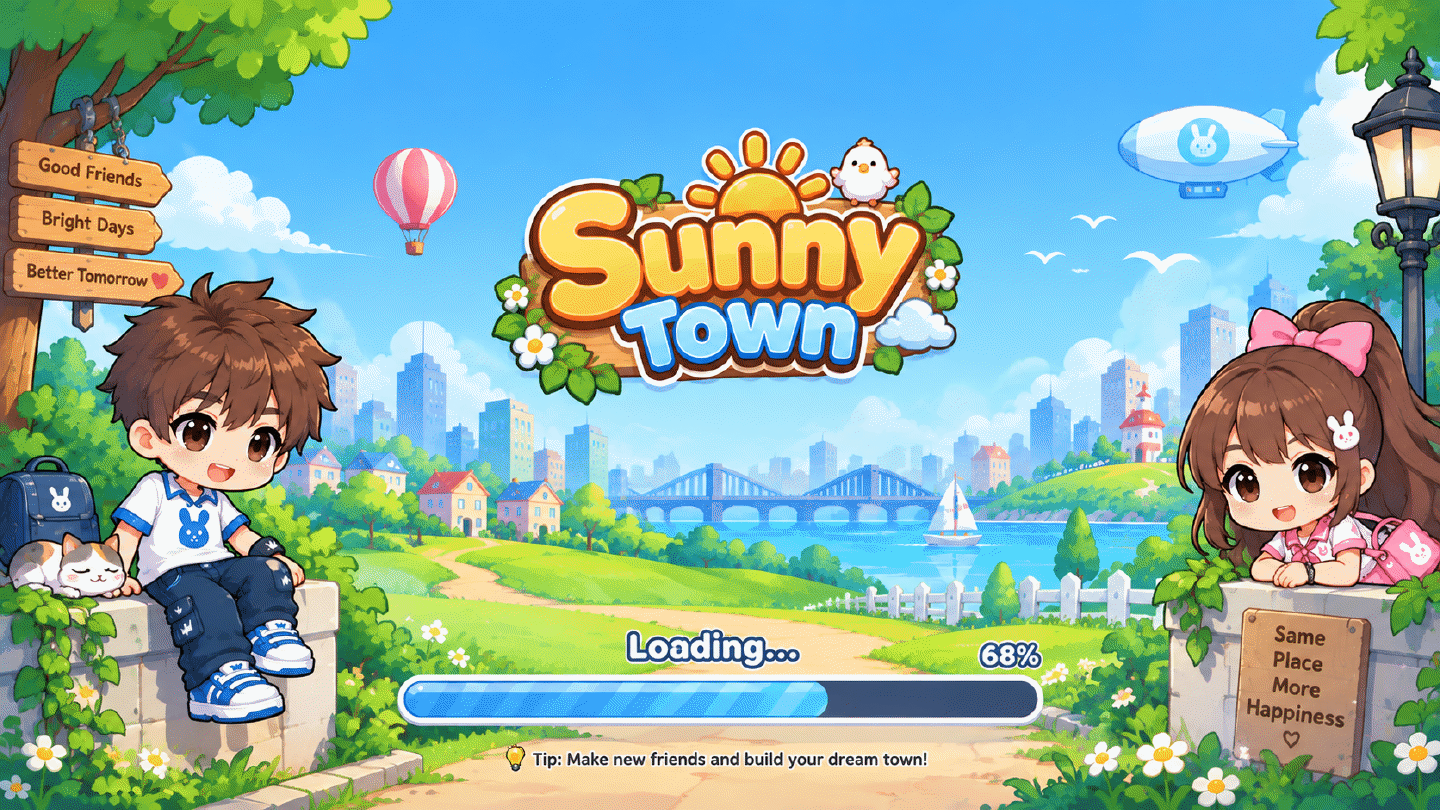
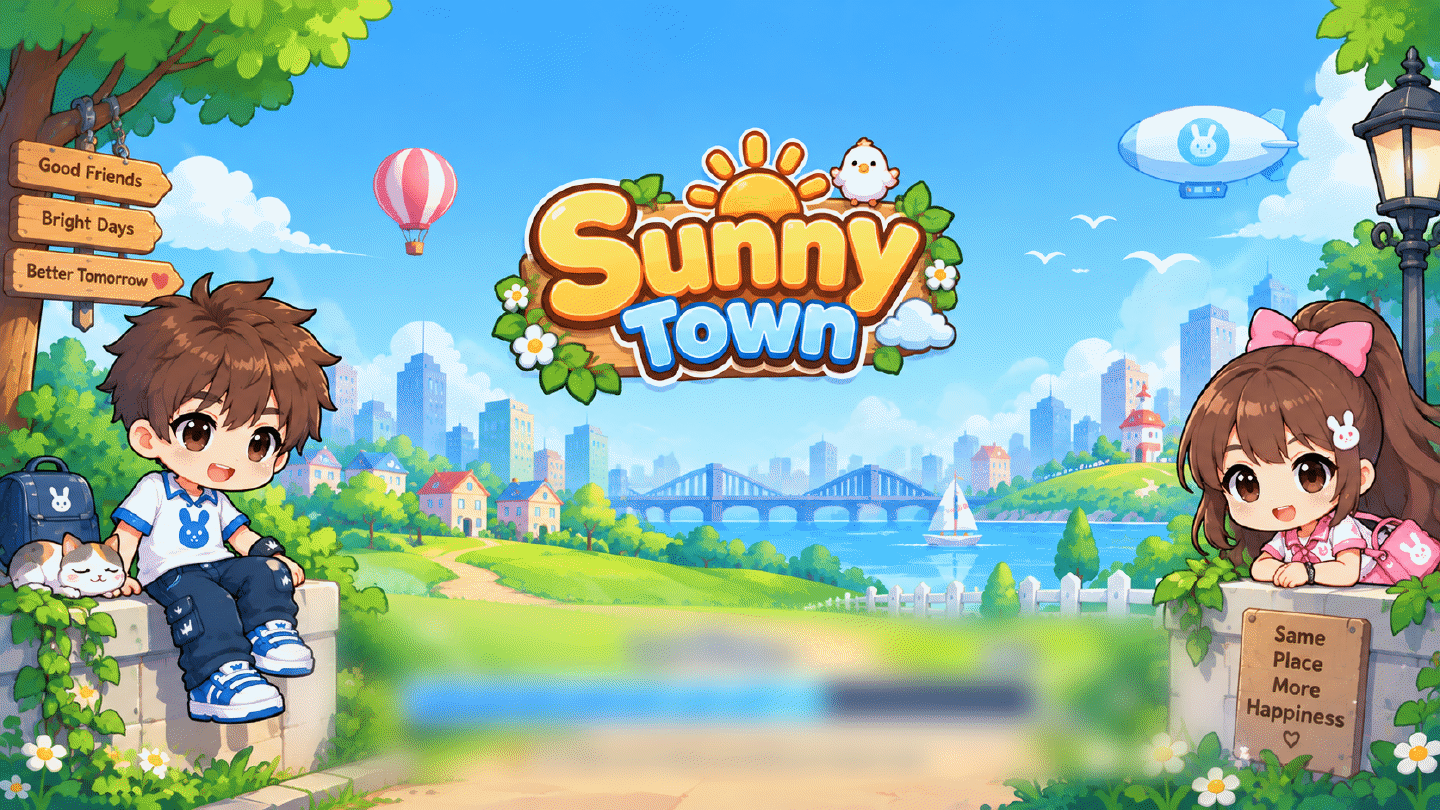
Thanh tải bám đúng bản mẫu, xoá giao diện vẽ chết khỏi tranh
- bỏ thẻ trắng ở màn chờ tải: chữ, thanh sọc chéo và dòng mẹo nằm thẳng trên
  tranh, chữ trắng viền đậm như bản mẫu
- prep-ui.mjs xoá hẳn vùng chữ và thanh vẽ chết khỏi loading.png ở khâu đóng
  gói. Phủ mờ lúc chạy không ăn thua: đó là chữ trắng viền dày, làm mờ chỉ biến
  nó thành vệt sáng vẫn đọc được và chồng lên chữ thật
- cách đầu là nội suy dọc giữa hàng trên và dưới, hỏng vì chỗ đó có hàng rào và
  bụi cây nên ra một khối vệt kéo dọc thấy ngay là vá. Cách dùng là làm nhoè
  mạnh với mép tan dần, đọc ra như hiệu ứng xoá phông
- nhờ vậy bỏ được dải phủ mờ lúc chạy ở màn này

Sửa script kiểm full.mjs: bảng điểm danh giờ tự mở muộn hơn (thêm bước chọn
server) nên Escape một phát bắn trước khi nó kịp hiện; đổi sang chờ nó xuất
hiện rồi đóng trong vòng lặp có kiểm lại.

diff --git a/client/styles.css b/client/styles.css
@@ -978,33 +978,6 @@ button.primary:active:not(:disabled), button.ghost:active:not(:disabled) { trans
   font-family: var(--font-display); font-size: 10px; font-weight: 700;
 }
 
-/* Màn chờ tải tài nguyên. Thanh chạy theo số byte thật nên không cần hiệu ứng
-   giả vờ đang chạy; chỉ làm mượt bước nhảy giữa hai lần cập nhật. */
-.loading-card { text-align: center; }
-.progress-track {
-  height: 14px;
-  margin: var(--space-4) 0 var(--space-2);
-  border-radius: 999px;
-  background: rgba(51, 30, 17, .16);
-  overflow: hidden;
-}
-.progress-fill {
-  height: 100%;
-  width: 0;
-  border-radius: 999px;
-  background: linear-gradient(90deg, var(--gold), #ffd77a);
-  transition: width .18s linear;
-}
-.progress-row {
-  display: flex;
-  justify-content: space-between;
-  align-items: baseline;
-  font-size: 13px;
-  color: var(--ink);
-}
-.progress-row strong { font-size: 18px; font-family: var(--font-display); }
-.progress-size { opacity: .75; font-variant-numeric: tabular-nums; }
-@media (prefers-reduced-motion: reduce) { .progress-fill { transition: none; } }
 
 /* Chọn nhân vật ở màn tạo tài khoản. Art là hai người vẽ sẵn nguyên bộ nên đây
    là hai nút chữ, không phải ô màu như các slot trang phục. */
@@ -1080,29 +1053,10 @@ button.primary:active:not(:disabled), button.ghost:active:not(:disabled) { trans
 #overlay.backdrop-loading {
   background: #6fc0ee center / cover no-repeat url('/assets/ui/loading.png');
   align-items: flex-end;
-  padding-bottom: clamp(12px, 6vh, 70px);
+  padding-bottom: clamp(10px, 5vh, 56px);
 }
-#overlay.backdrop-loading::before {
-  content: '';
-  position: absolute;
-  left: 50%;
-  translate: -50% 0;
-  bottom: 0;
-  height: 34%;
-  /* Rộng hơn dải ở màn đăng nhập: thanh tiến độ và con số phần trăm vẽ chết
-     trong tranh trải rộng tới ~72% bề ngang, dải hẹp thì mép phải còn sót chữ. */
-  width: clamp(480px, 78vw, 1120px);
-  backdrop-filter: blur(22px) saturate(.85);
-  -webkit-backdrop-filter: blur(22px) saturate(.85);
-  background: linear-gradient(90deg, rgba(24, 42, 60, 0), rgba(24, 42, 60, .32) 14%, rgba(24, 42, 60, .32) 86%, rgba(24, 42, 60, 0));
-  mask-image:
-    linear-gradient(90deg, transparent, #000 12%, #000 88%, transparent),
-    linear-gradient(0deg, #000 70%, transparent);
-  mask-composite: intersect;
-  -webkit-mask-composite: source-in;
-  pointer-events: none;
-}
-#overlay.backdrop-loading > * { position: relative; z-index: 1; }
+/* KHÔNG cần phủ mờ ở đây: chữ và thanh vẽ chết đã bị xoá khỏi tranh ở khâu
+   đóng gói (xem tools/prep-ui.mjs), nền dưới giao diện là mặt đất sạch. */
 
 /* Bắt đầu từ 36% chiều cao trở xuống: logo trong tranh nằm ở khoảng 5–33%, phủ
    mờ lên đó là xoá mất luôn thương hiệu. Giao diện vẽ chết nằm ở 46–75% nên
@@ -1240,3 +1194,64 @@ button.server-start {
   cursor: pointer;
 }
 button.server-start:active { transform: translateY(3px); box-shadow: 0 2px 0 #2b7a30; }
+
+/* Thanh tải: chữ và thanh nằm thẳng trên tranh, không bọc thẻ — bám đúng bản
+   mẫu. Đặt trùng chỗ thanh vẽ chết trong tranh nên nó bị che luôn. */
+.load-hud {
+  width: min(730px, 62vw);
+  display: flex;
+  flex-direction: column;
+  gap: 10px;
+}
+.load-row { display: flex; align-items: baseline; justify-content: space-between; }
+.load-label, .load-pct {
+  font-family: var(--font-display);
+  font-weight: 800;
+  font-size: clamp(19px, 2.4vw, 30px);
+  color: #fff;
+  /* Viền vừa phải: chữ trắng trên tranh sáng cần viền để không chìm, nhưng 4px
+     trên cỡ chữ 30px thì viền nuốt gần hết ruột trắng, chữ hoá ra xám xịt. */
+  -webkit-text-stroke: 2.5px #2b4a6b;
+  paint-order: stroke fill;
+  text-shadow: 0 3px 0 rgba(20, 44, 70, .45);
+}
+.load-track {
+  height: clamp(24px, 3.6vh, 38px);
+  border-radius: 999px;
+  background: #23405e;
+  border: 3px solid #16304a;
+  box-shadow: inset 0 3px 6px rgba(0, 0, 0, .35);
+  overflow: hidden;
+}
+.load-fill {
+  height: 100%;
+  width: 0;
+  border-radius: 999px;
+  /* Sọc chéo như bản mẫu; chạy bằng transform nên không ép trình duyệt tính lại
+     bố cục mỗi khung. */
+  background:
+    repeating-linear-gradient(115deg, rgba(255, 255, 255, .30) 0 12px, rgba(255, 255, 255, 0) 12px 26px),
+    linear-gradient(180deg, #7fd7ff, #2f9bea);
+  background-size: 200% 100%, 100% 100%;
+  transition: width .18s linear;
+  animation: load-stripes 1.1s linear infinite;
+}
+@keyframes load-stripes { to { background-position: -52px 0, 0 0; } }
+.load-foot {
+  /* Dòng tip canh GIỮA như bản mẫu; dung lượng đẩy ra mép phải. Canh trái thì
+     nó lệch hẳn khỏi chỗ dòng tip vẽ chết trong tranh và hai dòng chồng nhau. */
+  display: grid;
+  grid-template-columns: 1fr auto;
+  align-items: baseline;
+  gap: 12px;
+  font-size: clamp(12px, 1.2vw, 15px);
+  font-weight: 700;
+  color: #fff;
+  -webkit-text-stroke: 2px #2b4a6b;
+  paint-order: stroke fill;
+}
+.load-tip { text-align: center; }
+.load-size { opacity: .9; font-variant-numeric: tabular-nums; white-space: nowrap; }
+@media (prefers-reduced-motion: reduce) {
+  .load-fill { transition: none; animation: none; }
+}

diff --git a/client/src/scenes/loading.js b/client/src/scenes/loading.js
@@ -5,24 +5,31 @@
  * nên chặn ở đây tới khi tải xong — nhưng phải cho thấy CÒN BAO LÂU: thanh chạy
  * theo số byte thật, không phải vòng xoay đoán mò.
  *
- * Tranh nền riêng cho màn này, có sẵn chỗ cho thanh tiến độ ở đáy giữa — thẻ
- * thật đặt đúng chỗ đó. Không dùng tranh key art: nó để hai nhân vật ở GIỮA,
- * đúng chỗ dải phủ mờ, nên họ nhoè thành một vệt sau tấm thẻ.
+ * Bố cục bám đúng bản mẫu: chữ và thanh nằm thẳng trên tranh, không bọc trong
+ * thẻ. Đặt trùng chỗ thanh vẽ chết trong tranh nên nó bị che, khỏi cần phủ mờ
+ * mạnh tay.
  */
 import { el, showOverlay, hideOverlay } from '../ui/ui.js';
 import { atlas } from '../render/atlas.js';
 
 const mb = (bytes) => (bytes / 1024 / 1024).toFixed(1);
 
+const TIPS = [
+  'Kết bạn và cùng dựng nên thị trấn của riêng bạn!',
+  'Cây trồng lâu thì lời nhiều hơn, cây nhanh thì được nhiều kinh nghiệm hơn.',
+  'Điểm danh mỗi ngày để nhận thưởng, bỏ một ngày là chuỗi tính lại từ đầu.',
+  'Bấm vào ảnh đại diện để xem và thay đồ cho nhân vật.',
+];
+
 export async function showLoading() {
   const total = atlas.totalBytes;
   if (!total) return;
 
-  const bar = el('div', { class: 'progress-fill' });
-  const pct = el('strong', { text: '0%' });
-  const size = el('span', { class: 'progress-size', text: `0 / ${mb(total)} MB` });
+  const bar = el('div', { class: 'load-fill' });
+  const pct = el('span', { class: 'load-pct', text: '0%' });
+  const size = el('span', { class: 'load-size', text: `0 / ${mb(total)} MB` });
   const track = el('div', {
-    class: 'progress-track',
+    class: 'load-track',
     role: 'progressbar',
     'aria-label': 'Tiến độ tải tài nguyên',
     'aria-valuemin': '0',
@@ -30,11 +37,16 @@ export async function showLoading() {
     'aria-valuenow': '0',
   }, [bar]);
 
-  showOverlay(el('div', { class: 'card entry loading-card' }, [
-    el('h1', { text: 'Đang tải thế giới' }),
-    el('p', { class: 'lead', text: 'Tải xong một lần, lần sau vào sẽ nhanh vì trình duyệt giữ lại.' }),
+  showOverlay(el('div', { class: 'load-hud' }, [
+    el('div', { class: 'load-row' }, [
+      el('span', { class: 'load-label', text: 'Đang tải…' }),
+      pct,
+    ]),
     track,
-    el('div', { class: 'progress-row' }, [pct, size]),
+    el('div', { class: 'load-foot' }, [
+      el('span', { class: 'load-tip', text: `💡 ${TIPS[Math.floor(Math.random() * TIPS.length)]}` }),
+      size,
+    ]),
   ]), { backdrop: 'loading' });
 
   await atlas.preloadAll(({ loaded, total: all }) => {

diff --git a/docs/CHANGELOG.md b/docs/CHANGELOG.md
@@ -3,6 +3,25 @@
 Theo *Update rule* trong Document Control: mọi thay đổi hệ thống phải cập nhật
 tài liệu và changelog tương ứng.
 
+## 0.20.1 — 2026-09-08
+
+### Đổi — thanh tải bám đúng bản mẫu
+Bỏ thẻ trắng ở màn chờ tải. Chữ, thanh và dòng mẹo nằm thẳng trên tranh như bản
+mẫu: chữ trắng viền đậm, thanh sọc chéo chạy trong rãnh xanh đậm, dòng mẹo có
+biểu tượng bóng đèn.
+
+### Sửa — xoá giao diện vẽ chết khỏi tranh, thay vì phủ mờ lúc chạy
+Phủ mờ không ăn thua: chữ "Loading… 68%" trong tranh là chữ trắng viền dày, làm
+mờ chỉ biến nó thành vệt sáng vẫn đọc được và chồng lên chữ thật.
+
+`tools/prep-ui.mjs` giờ xoá hẳn vùng đó ở khâu đóng gói. Cách đầu — nội suy dọc
+giữa hàng trên và hàng dưới — hỏng: chỗ đó có hàng rào, bụi cây và lối đi, nội
+suy ra một khối vệt kéo dọc thấy ngay là vá. Cách dùng là **làm nhoè mạnh với
+mép tan dần**: chữ tan thành mảng mờ, và vì mép vùng tan dần nên không lộ khung
+chữ nhật — mắt đọc ra là hiệu ứng xoá phông.
+
+Nhờ vậy bỏ được luôn dải phủ mờ lúc chạy ở màn này.
+
 ## 0.20.0 — 2026-09-08
 
 ### Thêm — màn chọn server
